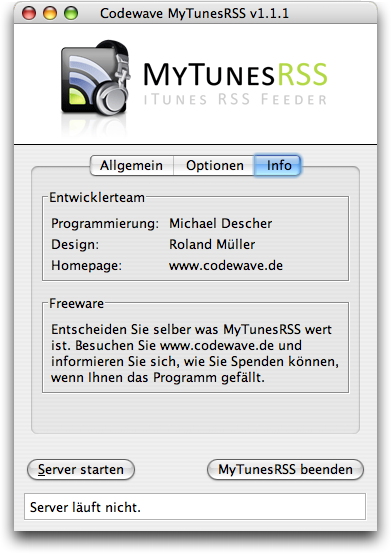
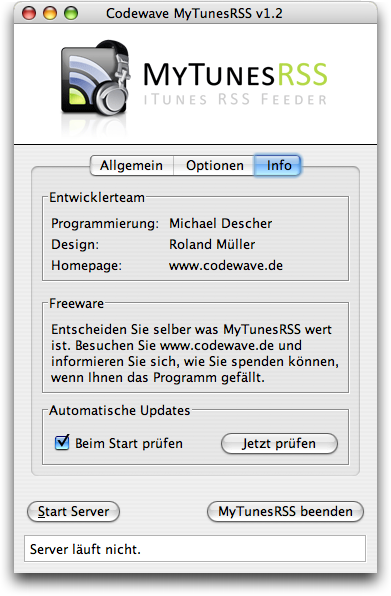
updated screenshots to v1.2 and added documentation for auto-update
git-svn-id: svn://127.0.0.1/MyTunesRss/trunk@894 6cd82e91-2702-0410-863d-86aa3370aca5

Changed region(s): [[0.0307, 0.0, 0.9514, 0.7978], [0.0614, 0.8285, 0.9514, 0.9819], [0.3683, 0.0921, 0.8593, 0.1841]]

diff --git a/etc/documentation/docs/de/config.html b/etc/documentation/docs/de/config.html
@@ -86,7 +86,9 @@
         <img src="images/info.png" alt="Informationen" />
 
         <p>
-            Auf der dritten Seite finden Sie Informationen zum Entwicklerteam und die Bitte um eine Spende, falls das Programm Ihnen gefällt. </p>
+            Auf der dritten Seite finden Sie Informationen zum Entwicklerteam und die Bitte um eine Spende, falls das Programm Ihnen gefällt.
+            Weiterhin können Sie festlegen, dass MyTunesRSS beim Programmstart prüft, ob eine neuere Version verfügbar ist. Sie können mit dem Knopf
+            "Jetzt prüfen" auch direkt nach einer neuen Version suchen. </p>
 
         <p>
             Unter den Konfigurationsseiten befinden sich die Knöpfe zum Starten und Stoppen des Servers und zum Beenden der Anwendung. Während der

diff --git a/etc/documentation/docs/en/config.html b/etc/documentation/docs/en/config.html
@@ -84,7 +84,9 @@
         <img src="images/info.png" alt="Information" />
 
         <p>
-            On the last page you can find some information on the developer team and a request to make a donation in case you like the program. </p>
+            On the last page you can find some information on the developer team and a request to make a donation in case you like the program. You
+            can also specify if you want MyTunesRSS to check for a newer version when starting. The button "Check now" lets you check for updates
+            right away. </p>
 
         <p>
             Below the configuration pages you find the buttons to start and stop the server and to quit the program. Settings cannot be changed while
